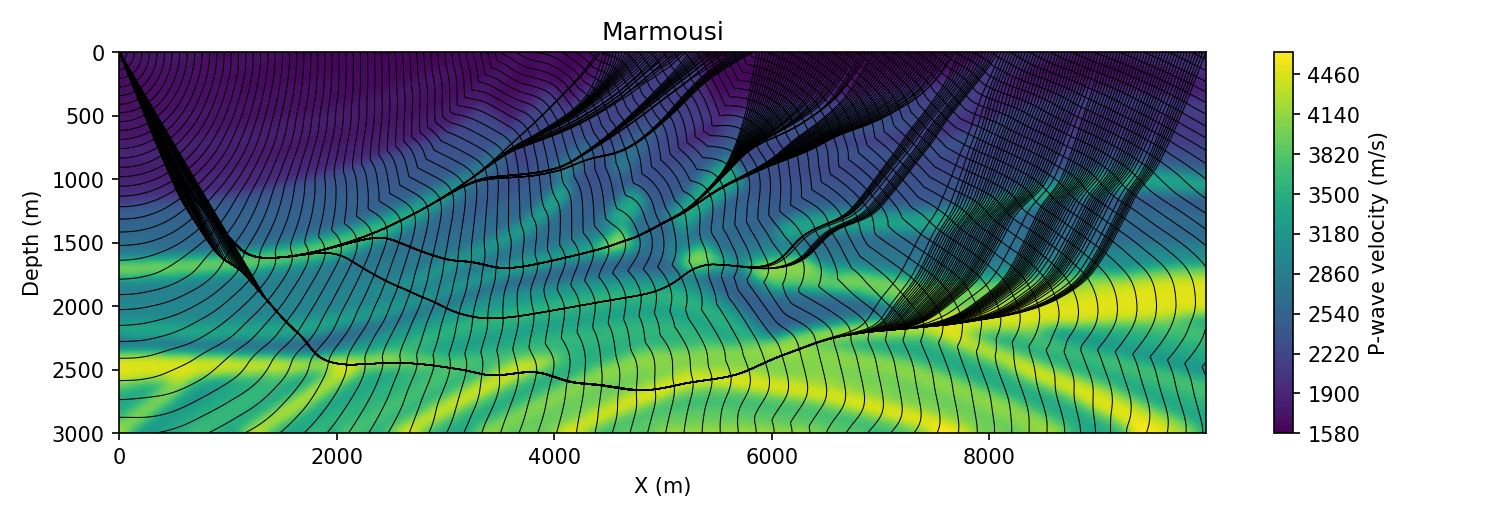
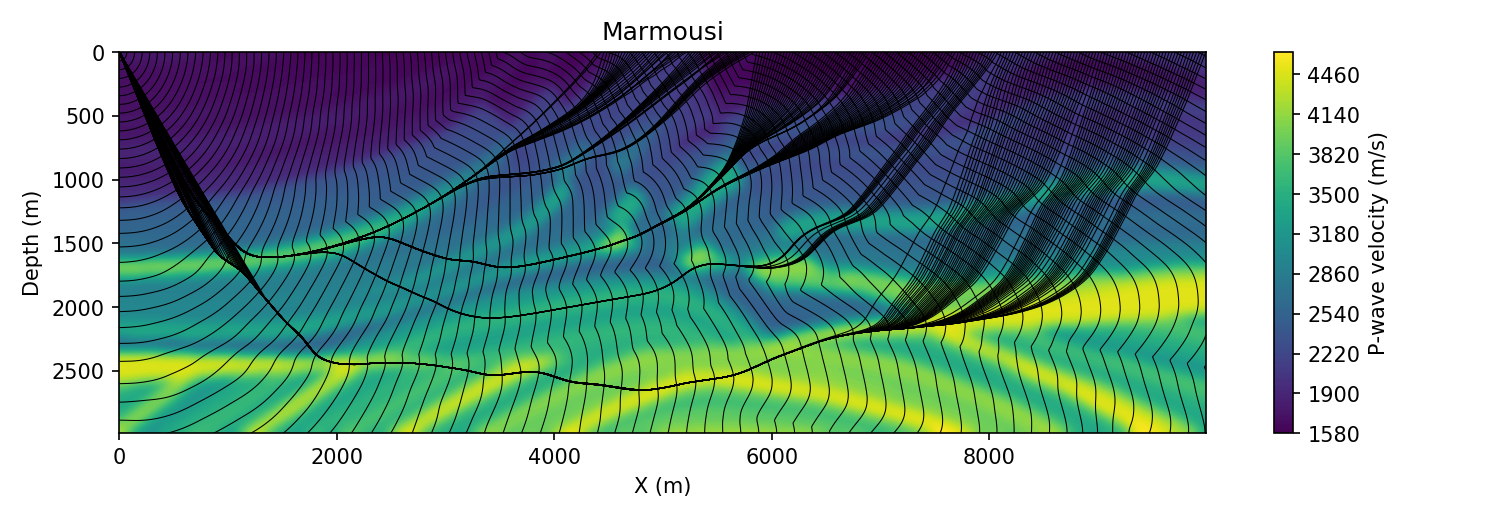
update example_plot

Changed region(s): [[0.0307, 0.0923, 0.7973, 0.8615]]

diff --git a/examples/example_plot.py b/examples/example_plot.py
@@ -24,12 +24,12 @@ except ImportError:
 if __name__ == "__main__":
     # Parameters
     source = ( 0., 0. )
-    marmousi = pickle.load(open("marmousi.pickle", "rb"))
+    marmousi = pickle.load(open("marmousi.pickle", "rb"))[51:,:]
     nz, nx = marmousi.shape
     dz, dx = 10., 10.
     
     # Compute traveltimes using a 2D Eikonal solver
-    eik = Eikonal(marmousi[50:,:], grid_size = (dz, dx), n_sweep = 3)
+    eik = Eikonal(marmousi, grid_size = (dz, dx), n_sweep = 3)
     eik.smooth(50)
     tt = eik.solve(source)
     
